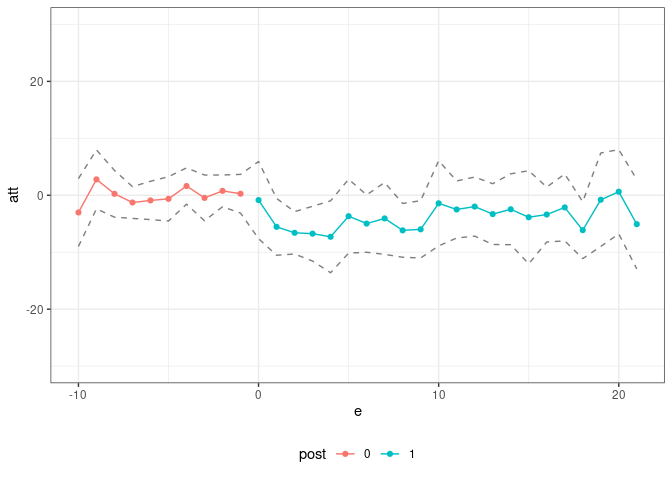
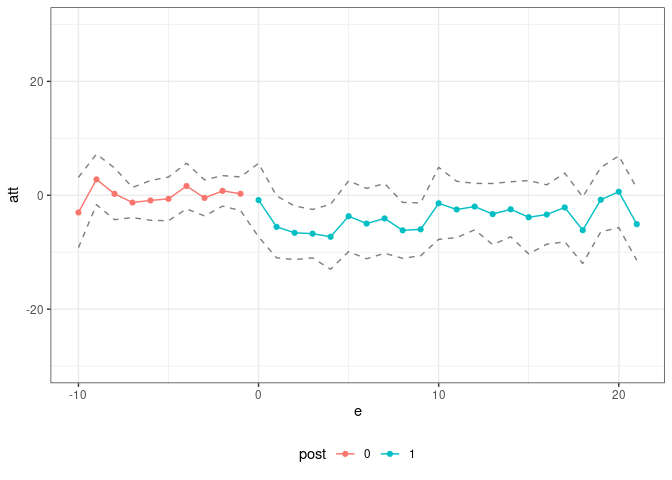
updated documentation

diff --git a/README.md b/README.md
@@ -91,52 +91,48 @@ res <- pte(yname="positive",
            xformla=xformla,
            max_e=21,
            min_e=-10) 
-#> Warning in compute.aggte(MP = MP, type = type, balance_e = balance_e, min_e
-#> = min_e, : Simultaneous conf. band is somehow smaller than pointwise one
-#> using normal approximation. Since this is unusual, we are reporting pointwise
-#> confidence intervals
 
 summary(res)
 #> 
 #> Overall ATT:  
 #>      ATT    Std. Error     [ 95%  Conf. Int.] 
-#>  14.8882       86.0828   -153.831    183.6073 
+#>  14.8882       61.0457  -104.7593    134.5356 
 #> 
 #> 
 #> Dynamic Effects:
 #>  Event Time Estimate Std. Error     [95%  Conf. Band] 
-#>         -10  -3.7266     2.9289  -11.4070      3.9538 
-#>          -9   2.6607     1.3462   -0.8695      6.1908 
-#>          -8   0.8290     2.5387   -5.8282      7.4862 
-#>          -7   5.2843     2.2773   -0.6875     11.2562 
-#>          -6   2.8555     1.9364   -2.2223      7.9333 
-#>          -5   1.3589     3.2004   -7.0335      9.7513 
-#>          -4   0.3294     3.9728  -10.0886     10.7474 
-#>          -3  -4.2227     5.2829  -18.0761      9.6308 
-#>          -2  -3.8447     3.1225  -12.0329      4.3434 
-#>          -1  -0.2234     4.4179  -11.8086     11.3618 
-#>           0 -10.8156     9.1593  -34.8342     13.2030 
-#>           1 -13.7998    13.9220  -50.3077     22.7081 
-#>           2  -7.8432    12.8283  -41.4829     25.7966 
-#>           3  -4.5541    10.0441  -30.8929     21.7846 
-#>           4  -3.5368    14.2173  -40.8191     33.7455 
-#>           5   8.5221    12.0524  -23.0831     40.1273 
-#>           6   1.1140    13.4986  -34.2837     36.5117 
-#>           7   6.6384    21.3796  -49.4256     62.7025 
-#>           8   7.1288    28.4291  -67.4212     81.6788 
-#>           9  10.8758    28.1486  -62.9388     84.6904 
-#>          10  17.5057    37.5738  -81.0247    116.0361 
-#>          11  40.8318    35.2361  -51.5682    133.2318 
-#>          12  48.6134    44.5775  -68.2829    165.5097 
-#>          13  52.4228    47.5653  -72.3083    177.1539 
-#>          14  50.2000    59.9100 -106.9028    207.3029 
-#>          15  68.2960    81.0562 -144.2589    280.8509 
-#>          16  44.7305    73.1070 -146.9789    236.4400 
-#>          17  61.4670   105.0498 -214.0066    336.9405 
-#>          18  50.4635    99.0482 -209.2721    310.1991 
-#>          19  47.3392   110.2171 -241.6846    336.3630 
-#>          20  28.6326   125.3489 -300.0715    357.3368 
-#>          21   4.3445   150.2227 -389.5866    398.2757 
+#>         -10  -3.7266     4.0155  -14.4487      6.9954 
+#>          -9   2.6607     1.4649   -1.2509      6.5723 
+#>          -8   0.8290     2.1982   -5.0406      6.6986 
+#>          -7   5.2843     2.2122   -0.6228     11.1915 
+#>          -6   2.8555     1.8828   -2.1720      7.8831 
+#>          -5   1.3589     3.9165   -9.0988     11.8166 
+#>          -4   0.3294     3.1233   -8.0103      8.6691 
+#>          -3  -4.2227     5.6412  -19.2857     10.8404 
+#>          -2  -3.8447     3.1547  -12.2685      4.5790 
+#>          -1  -0.2234     3.4089   -9.3259      8.8791 
+#>           0 -10.8156     9.6689  -36.6334     15.0021 
+#>           1 -13.7998    11.4868  -44.4716     16.8720 
+#>           2  -7.8432    11.7029  -39.0923     23.4059 
+#>           3  -4.5541     9.3487  -29.5170     20.4087 
+#>           4  -3.5368    14.2902  -41.6945     34.6208 
+#>           5   8.5221    12.6907  -25.3645     42.4087 
+#>           6   1.1140    17.1492  -44.6776     46.9056 
+#>           7   6.6384    19.4903  -45.4043     58.6811 
+#>           8   7.1288    25.7643  -61.6667     75.9243 
+#>           9  10.8758    39.6937  -95.1138    116.8655 
+#>          10  17.5057    32.6865  -69.7735    104.7849 
+#>          11  40.8318    51.5882  -96.9185    178.5820 
+#>          12  48.6134    52.4925  -91.5516    188.7783 
+#>          13  52.4228    54.8393  -94.0086    198.8542 
+#>          14  50.2000    61.1427 -113.0627    213.4628 
+#>          15  68.2960    68.2755 -114.0125    250.6045 
+#>          16  44.7305    77.3749 -161.8752    251.3363 
+#>          17  61.4670    83.2663 -160.8699    283.8038 
+#>          18  50.4635   111.7703 -247.9844    348.9114 
+#>          19  47.3392   124.4414 -284.9429    379.6213 
+#>          20  28.6326    99.9412 -238.2293    295.4945 
+#>          21   4.3445   158.3917 -418.5914    427.2805 
 #> ---
 #> Signif. codes: `*' confidence band does not cover 0
 ```
@@ -194,43 +190,43 @@ summary(oo_res)
 #> 
 #> Overall ATT:  
 #>      ATT    Std. Error     [ 95%  Conf. Int.]  
-#>  -3.9162        1.8012    -7.4465      -0.386 *
+#>  -3.9162        1.4855    -6.8277     -1.0048 *
 #> 
 #> 
 #> Dynamic Effects:
 #>  Event Time Estimate Std. Error    [95%  Conf. Band]  
-#>         -10  -3.0210     2.0846  -8.9812      2.9392  
-#>          -9   2.7846     1.8086  -2.3864      7.9556  
-#>          -8   0.2543     1.4356  -3.8504      4.3591  
-#>          -7  -1.2765     0.9758  -4.0664      1.5134  
-#>          -6  -0.9085     1.1768  -4.2731      2.4561  
-#>          -5  -0.6359     1.3622  -4.5308      3.2590  
-#>          -4   1.6184     1.1133  -1.5647      4.8015  
-#>          -3  -0.4660     1.4044  -4.4814      3.5495  
-#>          -2   0.7693     0.9750  -2.0184      3.5570  
-#>          -1   0.2643     1.1889  -3.1349      3.6634  
-#>           0  -0.8510     2.3675  -7.6203      5.9183  
-#>           1  -5.5461     1.7441 -10.5327     -0.5594 *
-#>           2  -6.5928     1.3015 -10.3141     -2.8716 *
-#>           3  -6.7447     1.6821 -11.5542     -1.9353 *
-#>           4  -7.2925     2.2079 -13.6054     -0.9797 *
-#>           5  -3.6784     2.2681 -10.1635      2.8067  
-#>           6  -4.9731     1.7613 -10.0089      0.0628  
-#>           7  -4.0683     2.2063 -10.3766      2.2400  
-#>           8  -6.1649     1.6514 -10.8865     -1.4433 *
-#>           9  -5.9830     1.7589 -11.0121     -0.9539 *
-#>          10  -1.4185     2.6147  -8.8945      6.0574  
-#>          11  -2.4974     1.7511  -7.5042      2.5094  
-#>          12  -1.9884     1.8134  -7.1732      3.1963  
-#>          13  -3.3056     1.8652  -8.6385      2.0274  
-#>          14  -2.4633     2.1765  -8.6863      3.7598  
-#>          15  -3.8627     2.8587 -12.0363      4.3110  
-#>          16  -3.3849     1.6883  -8.2121      1.4422  
-#>          17  -2.1404     2.0515  -8.0059      3.7251  
-#>          18  -6.1309     1.7473 -11.1269     -1.1349 *
-#>          19  -0.7883     2.8694  -8.9926      7.4160  
-#>          20   0.6190     2.5882  -6.7811      8.0192  
-#>          21  -5.0789     2.7451 -12.9276      2.7697  
+#>         -10  -3.0210     2.1812  -9.1923      3.1503  
+#>          -9   2.7846     1.5705  -1.6589      7.2282  
+#>          -8   0.2543     1.6055  -4.2882      4.7969  
+#>          -7  -1.2765     0.9340  -3.9191      1.3661  
+#>          -6  -0.9085     1.2336  -4.3987      2.5817  
+#>          -5  -0.6359     1.3566  -4.4742      3.2024  
+#>          -4   1.6184     1.4159  -2.3876      5.6245  
+#>          -3  -0.4660     1.1197  -3.6338      2.7019  
+#>          -2   0.7693     0.9474  -1.9111      3.4498  
+#>          -1   0.2643     1.0434  -2.6878      3.2164  
+#>           0  -0.8510     2.2825  -7.3088      5.6068  
+#>           1  -5.5461     1.9213 -10.9822     -0.1100 *
+#>           2  -6.5928     1.6626 -11.2969     -1.8888 *
+#>           3  -6.7447     1.5036 -10.9988     -2.4907 *
+#>           4  -7.2925     2.0161 -12.9968     -1.5883 *
+#>           5  -3.6784     2.1965  -9.8929      2.5360  
+#>           6  -4.9731     2.1842 -11.1530      1.2068  
+#>           7  -4.0683     2.1637 -10.1900      2.0533  
+#>           8  -6.1649     1.7340 -11.0708     -1.2590 *
+#>           9  -5.9830     1.6404 -10.6243     -1.3417 *
+#>          10  -1.4185     2.2347  -7.7413      4.9042  
+#>          11  -2.4974     1.7498  -7.4480      2.4532  
+#>          12  -1.9884     1.4394  -6.0609      2.0841  
+#>          13  -3.3056     1.8977  -8.6748      2.0637  
+#>          14  -2.4633     1.7068  -7.2924      2.3659  
+#>          15  -3.8627     2.2782 -10.3083      2.5830  
+#>          16  -3.3849     1.8421  -8.5968      1.8269  
+#>          17  -2.1404     2.1339  -8.1778      3.8971  
+#>          18  -6.1309     2.0653 -11.9742     -0.2876 *
+#>          19  -0.7883     1.9978  -6.4406      4.8640  
+#>          20   0.6190     2.2247  -5.6754      6.9135  
+#>          21  -5.0789     2.2421 -11.4226      1.2647  
 #> ---
 #> Signif. codes: `*' confidence band does not cover 0
 
